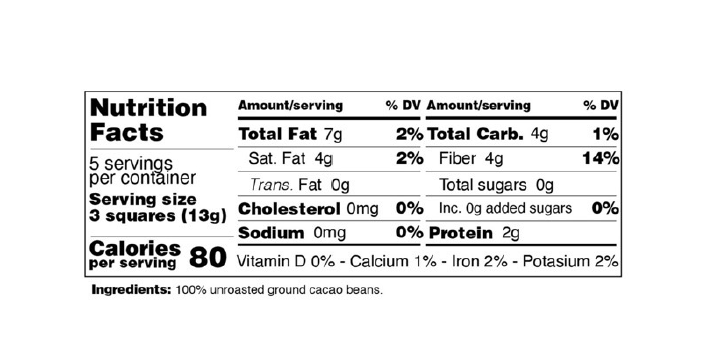
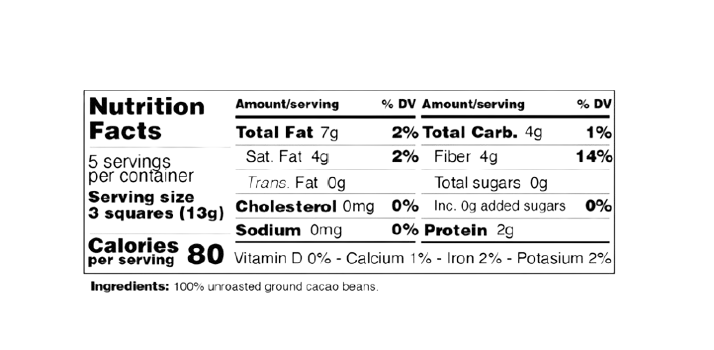
Se arregla padding de Home y elimina fondo blanco de imagenes.

Changed region(s): [[0.1232, 0.2571, 0.8627, 0.8286]]

diff --git a/src/components/ServiciosLista.jsx b/src/components/ServiciosLista.jsx
@@ -29,7 +29,7 @@ const ServiciosLista = () => {
             Más de 16 Marketplaces Desarrollados en EEUU, Chile, Costa Rica y
             Reino Unido
           </p>
-          <ul className="mt-4 space-y-4 px-4 text-lg text-secondary">
+          <ul className="mt-8 space-y-4 px-4 text-lg text-secondary">
             <li className="flex gap-3 items-center">
               <img src={puntoVerde} alt="" className="w-3 h-3" />
               Desarrollo de Marketplace propio.
@@ -57,7 +57,7 @@ const ServiciosLista = () => {
             <img
               src={Amazon}
               alt=""
-              className="object-fill h-54 w-70 rounded-3xl"
+              className="object-fill h-54 w-70 rounded-3xl mt-4"
             />
           </div>
         </div>
@@ -70,7 +70,7 @@ const ServiciosLista = () => {
             A través de nuestra empresa partner en EE.UU. Andean Group LLC,
             apoyamos a nuestros clientes para
           </p>
-          <ul className="mt-4 space-y-4 px-4 text-lg text-secondary">
+          <ul className="mt-8 space-y-4 px-4 text-lg text-secondary">
             <li className="flex gap-3 items-center">
               <img src={puntoVerde} alt="" className="w-3 h-3" />
               Facilitamos el registro FDA para exportar productos a EE.UU.
@@ -104,7 +104,7 @@ const ServiciosLista = () => {
             Adaptación tablas nutricionales y empaques FDA & EU Compliant para
             exportar
           </p>
-          <ul className="mt-4 space-y-4 px-4 text-lg text-secondary">
+          <ul className="mt-8 space-y-4 px-4 text-lg text-secondary">
             <li className="flex gap-3 items-center">
               <img src={puntoVerde} alt="" className="w-3 h-3" />
               Adaptamos tablas nutricionales y empaques para cumplimiento global.
@@ -140,7 +140,7 @@ const ServiciosLista = () => {
             A partir de un producto especifico podemos incursionar en nuevas
             líneas
           </p>
-          <ul className="mt-4 space-y-4 px-4 text-lg text-secondary">
+          <ul className="mt-8 space-y-4 px-4 text-lg text-secondary">
             <li className="flex gap-3 items-center">
               <img src={puntoVerde} alt="" className="w-3 h-3" />
               Diversificamos tus productos basándonos en tu catálogo actual.
@@ -173,7 +173,7 @@ const ServiciosLista = () => {
           <p className="text-secondary text-center my-5 text-lg">
             Ingreso al mercado destino cómo, cuándo, dónde y con quién hacerlo
           </p>
-          <ul className="mt-4 space-y-4 px-4 text-lg text-secondary">
+          <ul className="mt-8 space-y-4 px-4 text-lg text-secondary">
             <li className="flex gap-3 items-center">
               <img src={puntoVerde} alt="" className="w-3 h-3" />
               Diseñamos la estrategia comercial para ingresar al mercado

diff --git a/src/shared/Banner.jsx b/src/shared/Banner.jsx
@@ -5,7 +5,7 @@ import { fadeIn } from "../variants";
 const Banner = ({heading, subheading}) => {
   return (
     <div>
-      <div className="bg-[#CDC9C3] rounded-br-[80px] md:p-9 px-4 py-9">
+      <div className="bg-[#CDC9C3] rounded-br-[80px] md:p-9 px-4 py-9 mt-10">
         <motion.div variants={fadeIn("down",0.2)} initial="hidden" whileInView={"show"} viewport={{once:false, amount: 0.2}} className="flex flex-col justify-center items-center text-center space-y-8">
           <h2 className="text-5xl md:text-7xl font-bold text-secondary">
             {heading}

diff --git a/src/components/Navbar.jsx b/src/components/Navbar.jsx
@@ -41,7 +41,7 @@ const Navbar = () => {
 
   return (
     <>
-      <nav className="bg-[#faf7f1] md:px-14 p-1 max-w-screen-3xl border-b mx-auto text-secondary fixed top-0 right-0 left-0 z-50">
+      <nav className="bg-[#faf7f1] md:px-14  max-w-screen-3xl border-b mx-auto text-secondary fixed top-0 right-0 left-0 z-50">
         <div className="text-lg container mx-auto flex justify-between items-center font-medium">
           <div className="flex space-x-14 items-center">
             <a href="/" className="text=2xl font-semibold flex items-center space-x-3">

diff --git a/src/components/Home.jsx b/src/components/Home.jsx
@@ -5,7 +5,7 @@ import Banner from '../shared/Banner';
 
 const Home = () => {
     return(
-        <div className="md:px-12 p-4 max-w-screen-2xl mx-auto mt-36" id='home'>
+        <div className="md:px-12 p-4 max-w-screen-2xl mx-auto mt-24" id='home'>
             <Banner heading="Impulsamos el éxito de tus productos" subheading="Contamos con más de 18 años de experiencia exportando productos de Chile, 
                 Colombia, Perú & Costa Rica al Mundo"  
             />
